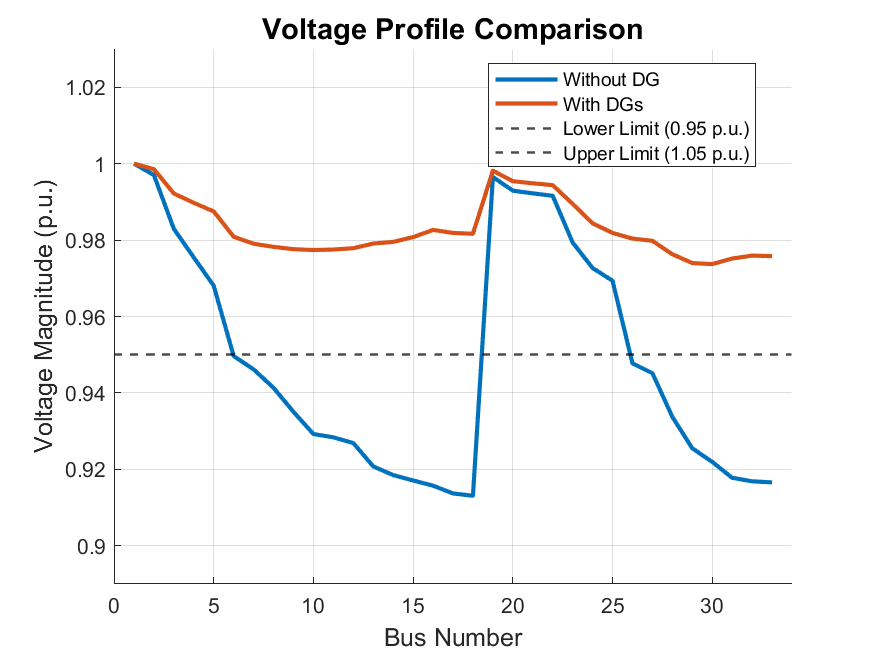
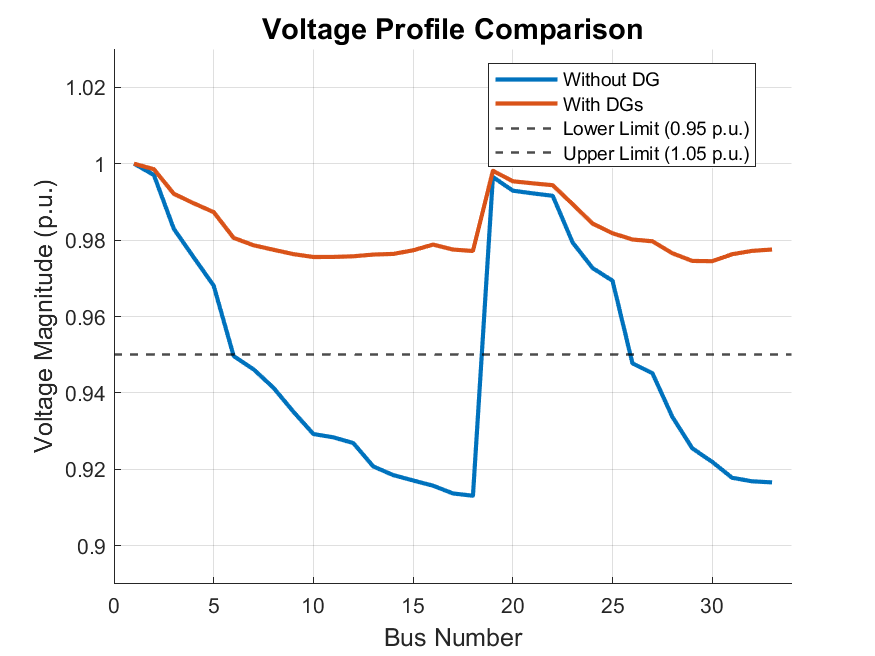
units changed

diff --git a/npl2.m b/npl2.m
@@ -1,0 +1,188 @@
+clear; clc;
+close all;
+run('probability.m')
+run('candidate.m')
+global DG_buses voltage_limits S_B_min S_B_max I_max pf load_state_factors demand num_states mpc num_solar_states  gamma_Ct;
+global V_without_DG  V_with_DG;
+
+% 1. Define system parameters
+voltage_limits = [0.95, 1.05];     % PU voltage limits
+S_B_min = 0.01;                     % Minimum DG size (MW)
+S_B_max = 2;                     % Maximum DG size (MW)
+I_max = 1; 
+pf = 0.95;
+load_state_factors = linspace(load_min,load_max, num_states); % Load factors
+demand = sum(load_means);
+
+results_without_DG = runpf(mpc);
+V_without_DG = results_without_DG.bus(:, 8);  % Voltage magnitudes (p.u.)
+
+% 3. Optimization setup
+lb = repmat(S_B_min, 1, length(DG_buses)); % Lower bounds
+ub = repmat(S_B_max, 1, length(DG_buses)); % Upper bounds
+x0 = [0.04,0.04,0.04,0.04,0.04]; % Initial guess within bounds
+
+function [V, I, P_flow, Q_flow] = SolvePowerFlow(x, load_state, solar_state)
+    global load_state_factors DG_buses mpc V_with_DG;
+    mpc_mod = mpc;
+    load_factor = load_state_factors(load_state);
+    mpc_mod.bus(:, 3) = mpc.bus(:, 3) * load_factor;
+    mpc_mod.bus(:, 4) = mpc.bus(:, 4) * load_factor;
+    
+    mpc_mod.gen = mpc_mod.gen(1,:);
+    mpc_mod.gencost = mpc_mod.gencost(1,:);
+    
+    for i = 1:length(DG_buses)
+        if DG_buses(i) == 0
+            continue;
+        end
+        
+        newGen = zeros(1, 21);
+        newGen(1, 1) = DG_buses(i);
+        newGen(1, 2) = x(i);
+        newGen(1, 3) = 0;
+        newGen(1, 4) = 100;
+        newGen(1, 5) = -100;
+        newGen(1, 6) = 1.0;
+        newGen(1, 7) = 100;
+        newGen(1, 8) = 1;
+        newGen(1, 9) = x(i);
+        newGen(1, 10) = 0;
+        
+        if isempty(mpc_mod.gen)
+            mpc_mod.gen = newGen;
+        elseif DG_buses(i) == 0
+            break;
+        else
+            mpc_mod.gen = [mpc_mod.gen; newGen];
+        end
+    end
+    
+    mpc_mod.gencost = repmat([2, 0, 0, 3, 0.1, 5, 0], length(DG_buses), 1);
+    results = runpf(mpc_mod);
+   V_with_DG = results.bus(:, 8); 
+    V = results.bus(:, 8);
+V_from = results.bus(results.branch(:,1), 8);
+V_to = results.bus(results.branch(:,2), 8);
+
+Z = results.branch(:,3) + 1j*results.branch(:,4);
+I = abs((V_from - V_to) ./ Z);    
+P_flow = results.branch(:, 14);
+    Q_flow = results.branch(:, 15);
+end
+
+function P_Loss = MinPLoss(x)
+    global DG_buses num_states num_solar_states mpc gamma_Ct;
+    P_Loss = 0;
+    for i = 1:num_states
+        for j = 1:num_solar_states
+            [V, I, P_flow, Q_flow] = SolvePowerFlow(x, i, j);
+            Rij = mpc.branch(:, 3);
+            P_Loss_ij = sum(I.^2 .* Rij) * mpc.baseMVA;
+            P_Loss = P_Loss + P_Loss_ij * gamma_Ct(i, j) * 8760;
+        end
+    end
+end
+function [c, ceq] = PowerConstraintsMulti(x)
+    global num_states num_solar_states mpc gamma_Ct;
+    
+    c = []; % Empty array to store inequality constraints
+    ceq = []; % No equality constraints
+    
+    for i = 1:num_states
+        for j = 1:num_solar_states
+            [constraints, constraintseq] = PowerFlowConstraints(x, i, j);
+            
+            % Concatenate inequality constraints
+            c = [c; constraints];
+            
+            % Concatenate equality constraints (if needed)
+            ceq = [ceq; constraintseq];
+        end
+    end
+end
+
+
+function [constraints, constraintseq] = PowerFlowConstraints(x, load_state, solar_state)
+    global pf voltage_limits I_max mpc DG_buses
+    
+    % First filter out any invalid bus numbers
+    valid_buses = DG_buses(DG_buses > 0 & mod(DG_buses,1) == 0);
+    
+    % Then use only valid buses
+    total_gen = sum(x(1:length(valid_buses)));  % x corresponds to valid_buses
+    
+    % Rest of your constraints...
+    [V, I] = SolvePowerFlow(x, load_state, solar_state);
+    
+    % Voltage constraints
+    voltage_upper = V - voltage_limits(2);
+    voltage_lower = voltage_limits(1) - V;
+    
+    % Current constraints
+    current_limits = abs(I) - I_max;
+    
+    % Load calculation (ensure using correct columns)
+    total_load = sum(mpc.bus(:,3));  % Active power load
+    
+    % Generation-demand constraint
+    gen_demand_constraint = total_gen - total_load;
+    
+    % Combine constraints
+    constraints = [voltage_upper; 
+                  voltage_lower;
+                  current_limits;
+                  gen_demand_constraint];
+    constraintseq = [];
+end
+
+options = optimoptions('fmincon', 'Display', 'iter', 'Algorithm', 'interior-point', 'MaxFunctionEvaluations', 5000);
+minploss_fun = @(x) MinPLoss(x);
+nonlcon_fun = @(x) PowerConstraintsMulti(x);
+[x_opt, fval] = fmincon(minploss_fun, x0, [], [], [], [], lb, ub, nonlcon_fun, options);
+
+disp('Optimal DG sizes (MW):');
+disp(x_opt');
+disp(['Annual energy loss: ', num2str(fval), ' MWh']);
+
+function plotVoltageComparison(V_without_DG, V_with_DG, bus_numbers)
+    % Create figure
+    figure;
+    hold on;
+    grid on;
+    
+    % Plot voltage profiles
+   % Plot voltage profiles with smooth lines and no markers
+plot(bus_numbers, V_without_DG(bus_numbers), '-', 'Color', [0 0.447 0.741], ...  % Blue
+    'LineWidth', 2, 'DisplayName', 'Without DG');
+plot(bus_numbers, V_with_DG(bus_numbers), '-', 'Color', [0.85 0.325 0.098], ...   % Red
+    'LineWidth', 2, 'DisplayName', 'With DGs');
+    
+    % Add voltage limits
+    yline(0.95, 'k--', 'LineWidth', 1.2, 'DisplayName', 'Lower Limit (0.95 p.u.)');
+    yline(1.05, 'k--', 'LineWidth', 1.2, 'DisplayName', 'Upper Limit (1.05 p.u.)');
+    
+    % Customize plot
+    xlabel('Bus Number', 'FontSize', 12);
+    ylabel('Voltage Magnitude (p.u.)', 'FontSize', 12);
+    title('Voltage Profile Comparison', 'FontSize', 14);
+    
+    % Set axis limits and ticks
+    xlim([min(bus_numbers)-1 max(bus_numbers)+1]);
+    ylim([0.89 1.03]);
+    yticks(0.90:0.02:1.02);
+    
+    % Add legend
+    legend('Location', 'best');
+    
+    hold off;
+    
+    % Save figure
+    saveas(gcf, 'voltage_comparison.png');
+end
+% Select buses to plot (e.g., all buses or specific ones)
+bus_numbers = 1:33;  % All buses
+% Or for odd buses: bus_numbers = 3:2:33;
+
+% Generate the plot
+plotVoltageComparison(V_without_DG, V_with_DG, bus_numbers);

diff --git a/powerLoss.m b/powerLoss.m
@@ -1,63 +1,49 @@
 clear; clc;
 close all;
 run('probability.m')
-global DG_buses voltage_limits S_B_min S_B_max I_max   pf  load_state_factors demand;
-% 1. Define system parameters
-voltage_limits = [0.95, 1.05];     % PU voltage limits
-S_B_min = 0.1;                     % Minimum DG size (MW)
-S_B_max = 2.0;                     % Maximum DG size (MW)
-I_max = 300;                       % Thermal limit (A)
-pf = 0.95;
-load_state_factors = linspace(load_min, load_max, num_states); % Load factors
-demand=sum(load_means);
-mpc = loadcase('case33bw');
+run('candidate.m')
+global DG_buses voltage_limits S_B_min S_B_max I_max pf load_state_factors demand num_states mpc num_solar_states  gamma_Ct;
+global V_without_DG  V_with_DG;
 
-function [V, I, P_flow, Q_flow] = SolvePowerFlow(load_state, solar_state)
-    global load_state_factors DG_buses mpc;
+load_state_factors = linspace(load_min,load_max, num_states);
+demand = sum(load_means);
 
-    % Copy the base case data
+results_without_DG = runpf(mpc);
+V_without_DG = results_without_DG.bus(:, 8); 
+
+function [V, I, P_flow, Q_flow] = SolvePowerFlow( load_state, solar_state)
+    global load_state_factors DG_buses mpc V_with_DG;
     mpc_mod = mpc;
-    
-    % Adjust load levels
     load_factor = load_state_factors(load_state);
-    mpc_mod.bus(:, 3) = mpc.bus(:, 3) * load_factor; % P
-    mpc_mod.bus(:, 4) = mpc.bus(:, 4) * load_factor; % Q
-
-    % Clear existing generators (keep only slack bus)
-   mpc_mod.gen = mpc_mod.gen(1,:);
-    mpc_mod.gencost = mpc_mod.gencost(1,:);
-
-    % Run Power Flow
+    mpc_mod.bus(:, 3) = mpc.bus(:, 3) * load_factor;
+    mpc_mod.bus(:, 4) = mpc.bus(:, 4) * load_factor;
     results = runpf(mpc_mod);
-    % Extract results
+   V_with_DG = results.bus(:, 8); 
     V = results.bus(:, 8);
-    I = abs(results.branch(:, 14) + 1j * results.branch(:, 15)) ./ results.branch(:, 3);
-    P_flow = results.branch(:, 14);
+V_from = results.bus(results.branch(:,1), 8);
+V_to = results.bus(results.branch(:,2), 8);
+
+Z = results.branch(:,3) + 1j*results.branch(:,4);
+I = abs((V_from - V_to) ./ Z);    
+P_flow = results.branch(:, 14);
     Q_flow = results.branch(:, 15);
 end
 
 function P_Loss = MinPLoss()
-    global num_states num_solar_states mpc gamma_Ct;
-    
-    P_Loss = 0; % Initialize total loss
-    
-    % Loop over all load and solar states
+    global  num_states num_solar_states mpc gamma_Ct;
+    P_Loss = 0;
     for i = 1:num_states
         for j = 1:num_solar_states
-            % Solve power flow for (load state i, solar state j)
-            [V, I, P_flow, Q_flow] = SolvePowerFlow(i, j); 
-            
-            % Extract resistance values
-            Rij = mpc.branch(:, 3);  % Assuming column 3 contains resistance
-            
-            % Compute power loss for this state
-            P_Loss_ij = sum((I.^2) .* Rij);  
-            
-            % Weight by joint probability γ(Ct) for (i, j)
+            [V, I, P_flow, Q_flow] = SolvePowerFlow( i, j);
+            Rij = mpc.branch(:, 3);
+            P_Loss_ij = sum(I.^2 .* Rij) * mpc.baseMVA;
             P_Loss = P_Loss + P_Loss_ij * gamma_Ct(i, j) * 8760;
         end
     end
 end
 
-P_Loss_no_DG = MinPLoss();
-disp(['Annual energy loss without DGs: ', num2str(P_Loss_no_DG)]);
+
+disp('Optimal DG sizes (MW):');
+ploss=MinPLoss();
+disp(['Annual energy loss: ', num2str(ploss), ' MWh']);
+disp(['Avg Demand: ', num2str(demand*8760), ' MW']);

diff --git a/probability.m b/probability.m
@@ -10,7 +10,7 @@ mean_load = mean(load_means);
 std_load = std(load_means);
 
 % Define 9 load states (equally spaced)
-num_states = 9;
+num_states = 2;
 load_min = mean_load - 3 * std_load;
 load_max = mean_load + 3 * std_load;
 state_bounds = linspace(load_min, load_max, num_states + 1);
@@ -41,12 +41,12 @@ if std_normalized > 0
     beta_param = (1 - mean_normalized) * ((mean_normalized * (1 - mean_normalized)) / std_normalized^2 - 1);
 else
     alpha = 1; 
-    beta_param = 1; % Default values to prevent division by zero
+    beta_param = 1; 
 end
 min_val=irrad_min;
 max_val=irrad_max;
-% Compute Gamma St values (probabilities for each irradiance state)
-num_solar_states = 10;
+
+num_solar_states = 2;
 state_bounds_normalized = linspace(0, 1, num_solar_states + 1);
 state_bounds_original = min_val + state_bounds_normalized * (max_val - min_val);
 state_bounds_pairs = [state_bounds_original(1:end-1)', state_bounds_original(2:end)'];

diff --git a/candidate.m b/candidate.m
@@ -1,4 +1,5 @@
-run('demand.m'); 
+mpc = loadcase('case33bw');
+results=runpf(mpc);
 V_base = results.bus(:, 8);  
 
 mpc.bus(:, 3) = mpc.bus(:, 3) * 1.072;  % Increase active power demand (P)
@@ -13,7 +14,8 @@ VRI = (V_base - V_after) ./ V_after;
 
 disp("VRI"+VRI);
 
-candidate_buses = find(VRI > 0.000798);  % Adjusted threshold
+candidate_buses = find(VRI >0.00718);
+DG_buses=candidate_buses;  % Adjusted threshold
 disp("Buses");
 disp(candidate_buses)
 
@@ -21,5 +23,5 @@ disp(candidate_buses)
 candidates_matrix = [candidate_buses, VRI(candidate_buses)];
 
 % Display Results
-disp("Candidate Buses Where VRI > 0.000798:");
+disp("Candidate Buses Where VRI > 0.0072:");
 disp(candidates_matrix);
